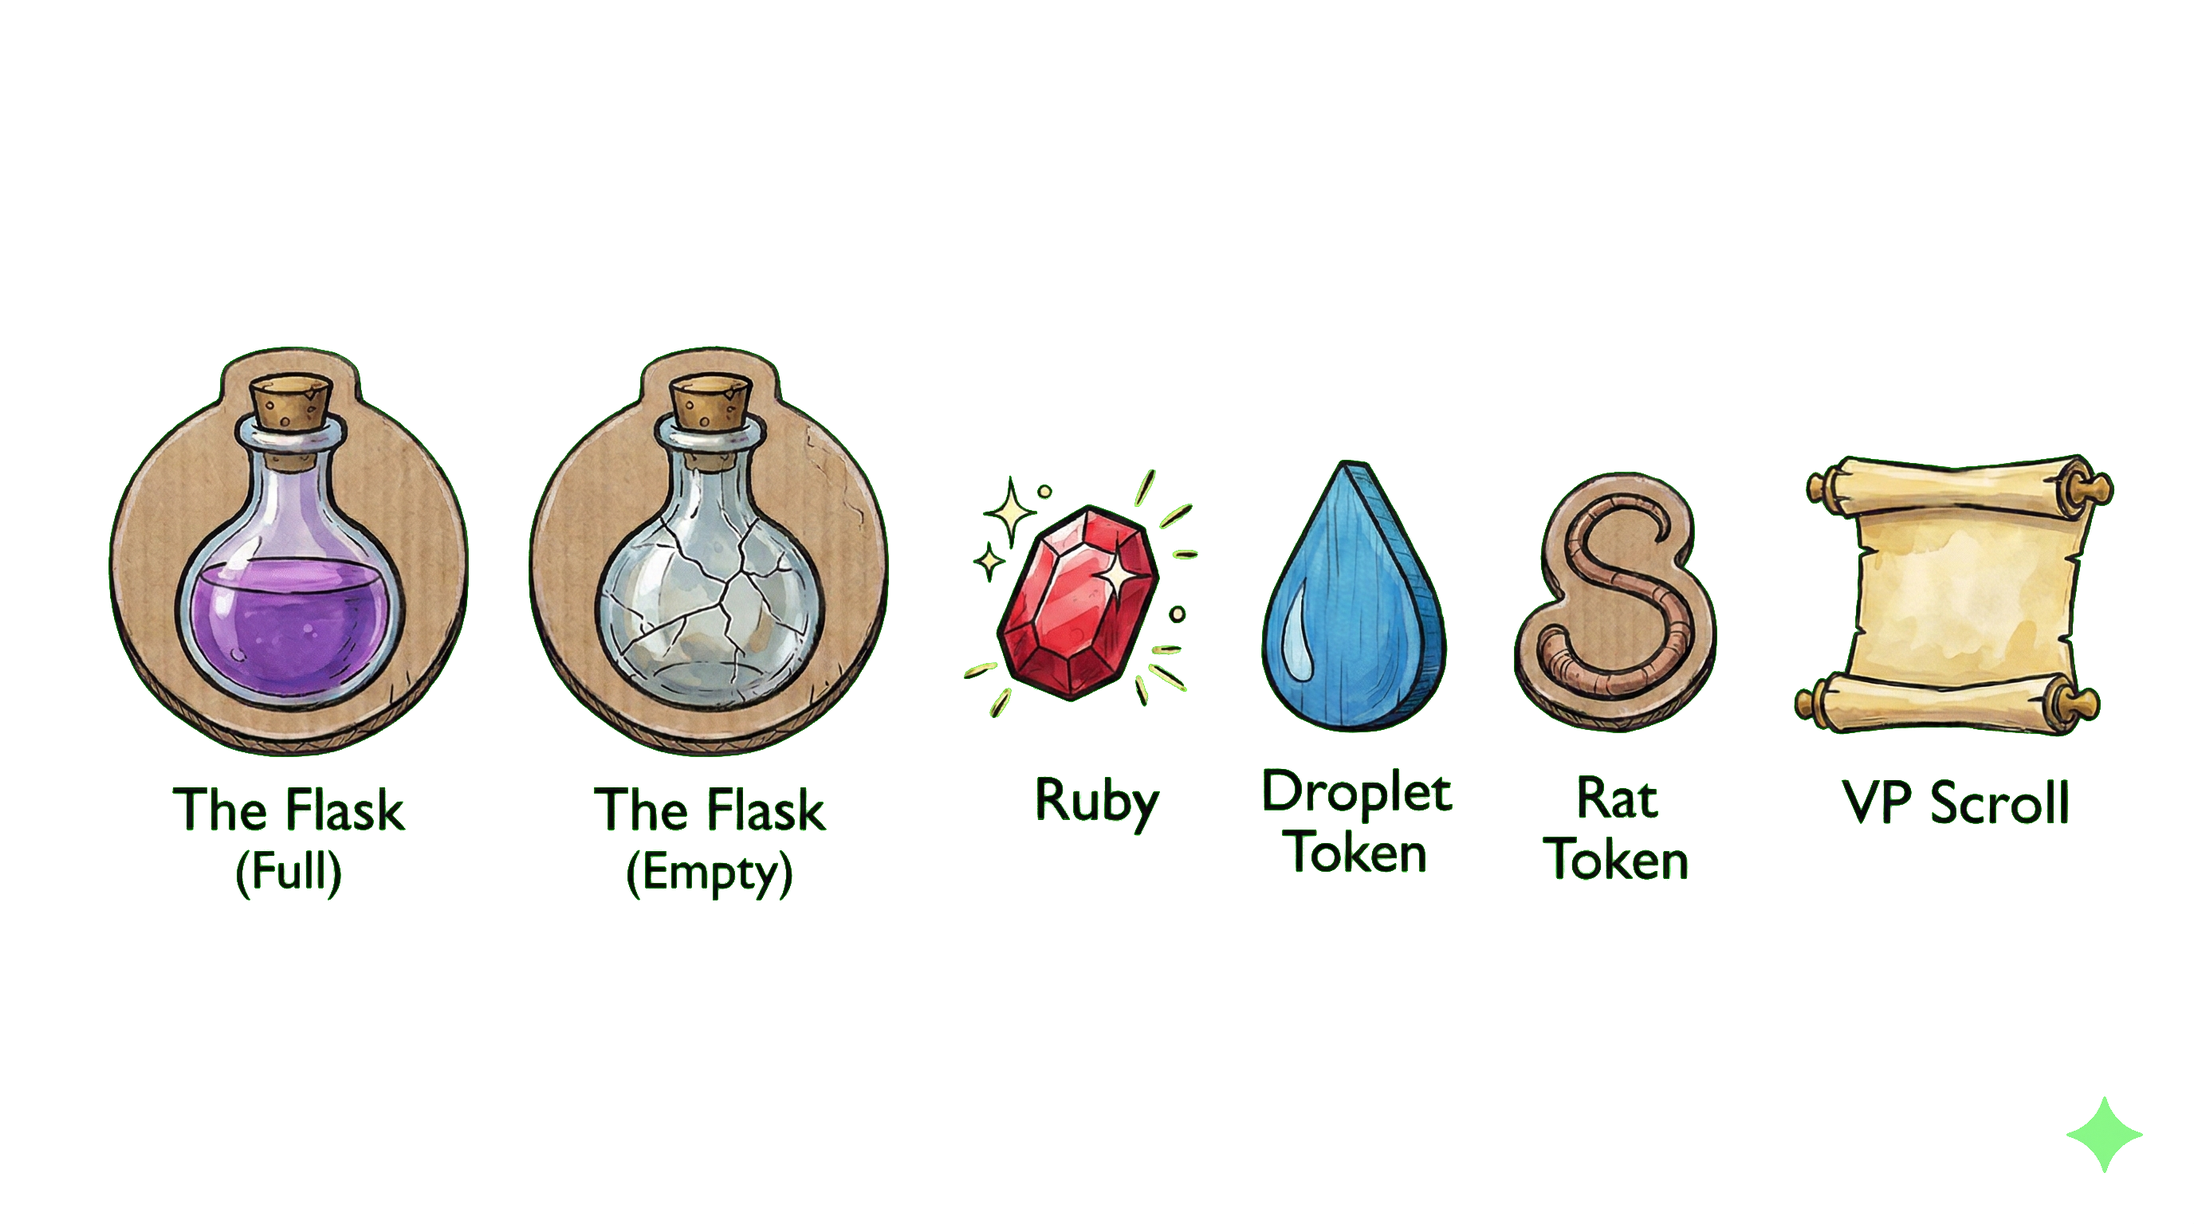
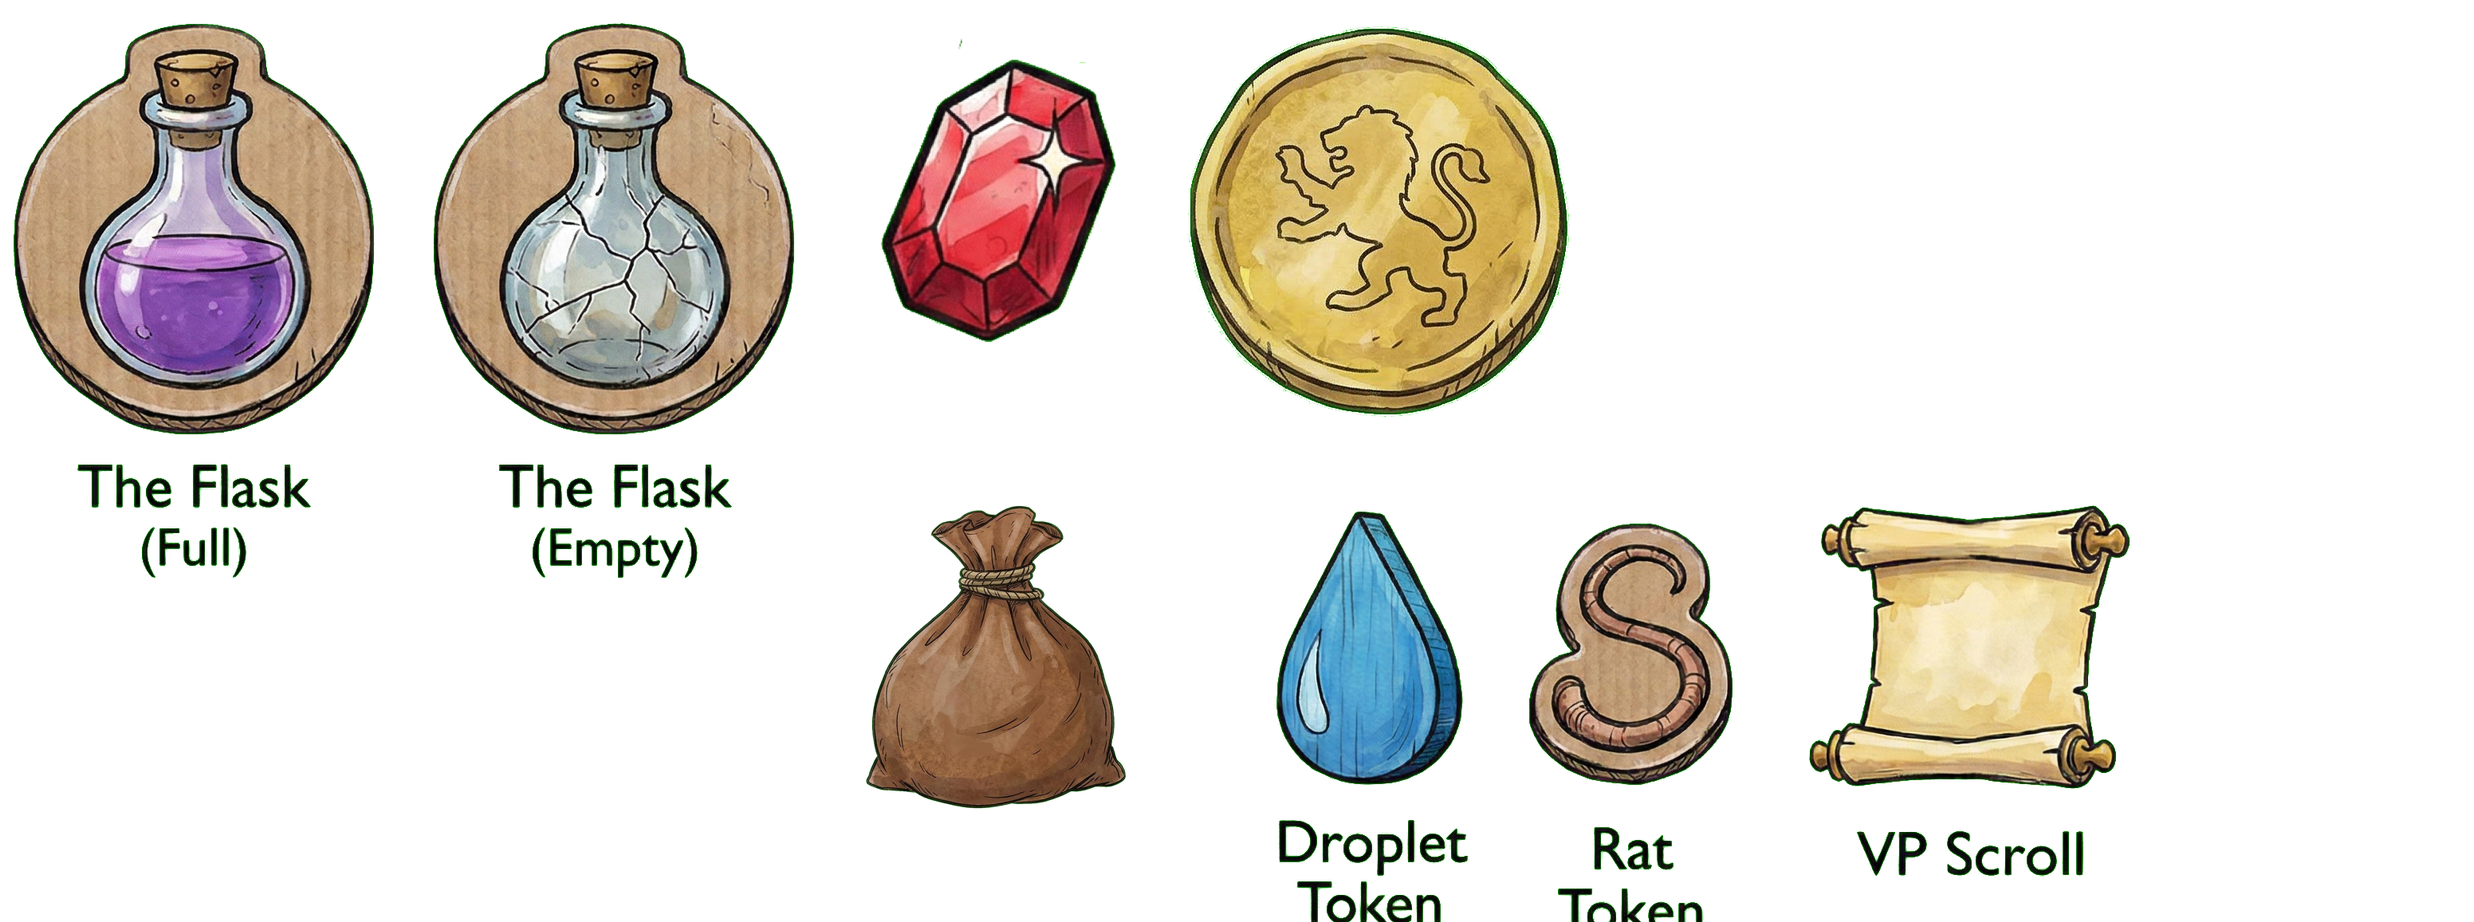
Add help dialog, add gold coin
Let’s buff up the “Help” dialog. It should have right and left arrows that move between six help screens, while keeping the title “How to play OpenQuacks”. 
Screen 1: “DRAW ingredients from your bag to fill your cauldron, brew a great potion, and earn money and victory points. But be careful and STOP before drawing too many Boomberries (white tokens), or your cauldron will explode!”. Then in a new line add an equation: WHITE_3 + WHITE_3 + WHITE_2 = explosion. Use the WHITE icons on the left side of the equation, and an explosion emoji 💥 on the right side.

Screen 2: “At the end of each day, spend money to buy more ingredients. These ingredients make your brew more powerful!”. In a new line, draw ORANGE_1, RED_1, GREEN_1, YELLOW_1, PURPLE_1, BLACK_1, BLUE_1.

Screen 3: “Use the FLASK to take back a boomberry into your bag. You may only use the flask immediately after drawing a boomberry, and you cannot use the flask if your brew exploded! You can refill your flask for a price.”
In a new line, draw an equation: empty flask + ruby + ruby = full flask.

Screen 4: “The DROPLET is where you start brewing from. Adding droplets makes your brew more valuable, but they cost rubies!”. In a new line: ruby + ruby = droplet.

Screen 5: “Get free RAT TAILS if you are far behind the leader. These ingredients give you a temporary boost, so you could catch up with your opponents!” In a new line, show the RAT icon.
[…]

diff --git a/index.html b/index.html
@@ -232,17 +232,12 @@
                     <button id="btn-flask" class="flask-btn" disabled>Use</button>
                 </div>
                 <div class="status-box">
-                    <div style="display: flex; align-items: center;">
-                        <span id="ui-icon-rat" class="icon-small"></span>Rat Tails:
-                    </div>
-                    <strong id="ui-rat-tails" style="color: #ffb703;">0</strong>
-                </div>
-                <div class="status-box">
                     <span>Brew Value:</span>
                     <span style="display: flex; align-items: center;">
                         <strong id="ui-brew-vp" style="color: #f5f5f5; display: none;">0</strong>
                         <span id="ui-brew-vp-icon" class="icon-small" style="display: none; margin-left: 5px; margin-right: 10px;"></span>
                         <strong id="ui-brew-value" style="color: gold;">0</strong>
+                        <span id="ui-brew-coin" class="icon-small" style="margin-left: 3px;"></span>
                         <strong id="ui-brew-ruby-val" style="color: #ff4444; display: none; margin-left: 8px;">0</strong>
                         <span id="ui-brew-ruby" class="icon-small" style="display: none; margin-left: 3px; margin-right: 0;"></span>
                     </span>
@@ -285,13 +280,17 @@
     </div>
 
     <div id="help-modal" class="modal-overlay" style="z-index: 1007;">
-        <div class="modal-content">
-            <h2>❓ How to Play Open Quacks</h2>
-            <p style="margin: 15px 0; font-size: 1.1em; line-height: 1.5; color: #ddd;">
-                Draw ingredients from your bag to fill your cauldron and earn money and victory points. 
-                Buy new ingredients to make your brew more powerful, but be careful not to draw too many Boomberries (white tokens), or your cauldron will explode!
-            </p>
-            <button id="btn-close-help" style="background-color: #4caf50;">Got it!</button>
+        <div class="modal-content" style="max-width: 550px;">
+            <h2>❓ How to play OpenQuacks</h2>
+            <div style="display: flex; align-items: center; justify-content: space-between; margin-top: 20px;">
+                <button id="btn-help-prev" style="flex: none; width: 40px; height: 40px; padding: 0; border-radius: 50%; background-color: #4a4e69; font-size: 1.2rem; margin: 0;">&lt;</button>
+                <div id="help-slide-content" style="flex: 1; margin: 0 15px; font-size: 1.05em; line-height: 1.5; color: #ddd; min-height: 160px; display: flex; flex-direction: column; justify-content: center;">
+                    <!-- content injected here -->
+                </div>
+                <button id="btn-help-next" style="flex: none; width: 40px; height: 40px; padding: 0; border-radius: 50%; background-color: #4a4e69; font-size: 1.2rem; margin: 0;">&gt;</button>
+            </div>
+            <div id="help-slide-indicator" style="margin-top: 15px; font-size: 0.9rem; color: #aaa; font-weight: bold;">1 / 6</div>
+            <button id="btn-close-help" style="background-color: #4caf50; margin-top: 15px;">Got it!</button>
         </div>
     </div>
 
@@ -311,7 +310,7 @@
             <p style="margin: 15px 0; font-size: 0.9em; color: #aaa;">(You may only take Victory Points OR Money to buy ingredients, not both).</p>
             <div>
                 <button id="btn-choose-vp">Take <span id="expl-vp-val">0</span> VP</button>
-                <button id="btn-choose-money">Take <span id="expl-money-val">0</span> Money</button>
+                <button id="btn-choose-money" style="display: inline-flex; align-items: center; justify-content: center;">Take <span id="expl-money-val" style="margin: 0 5px;">0</span> <span id="expl-money-icon"></span></button>
             </div>
         </div>
     </div>
@@ -320,7 +319,7 @@
         <div class="modal-content">
             <h2>🛒 Buying Phase</h2>
             <div style="display: flex; justify-content: space-around; margin-bottom: 15px; background: rgba(0,0,0,0.3); padding: 10px; border-radius: 8px;">
-                <span>Available Money: <strong id="shop-money" style="color: gold; font-size: 1.2rem;">0</strong></span>
+                <span style="display: flex; align-items: center;">Available Money: <strong id="shop-money" style="color: gold; font-size: 1.2rem; margin-left: 5px;">0</strong><span id="shop-money-icon"></span></span>
                 <span style="display: flex; align-items: center;">
                     <span id="ui-icon-ruby" class="icon-small"></span> 
                     Rubies: <strong id="shop-rubies" style="color: #ff4444; font-size: 1.2rem; margin-left: 5px;">0</strong>
@@ -419,12 +418,13 @@
 
         // Utility Sprite Mappings updated for the new irregular layout
         const UTILS_MAP = {
-            FLASK_FULL:  { x: 0.04, y: 0.24, w: 0.19, h: 0.38 }, 
-            FLASK_EMPTY: { x: 0.24, y: 0.24, w: 0.19, h: 0.38 }, 
-            RUBY:        { x: 0.44, y: 0.34, w: 0.13, h: 0.27 }, 
-            DROPLET:     { x: 0.57, y: 0.33, w: 0.11, h: 0.28 }, 
-            RAT:         { x: 0.69, y: 0.38, w: 0.12, h: 0.21 }, 
-            VP:          { x: 0.81, y: 0.34, w: 0.17, h: 0.27 }  
+            FLASK_FULL:  { x: 0.00, y: 0.00, w: 0.20, h: 0.95 }, 
+            FLASK_EMPTY: { x: 0.20, y: 0.00, w: 0.20, h: 0.95 }, 
+            RUBY:        { x: 0.41, y: 0.05, w: 0.13, h: 0.40 }, 
+            COIN:        { x: 0.37, y: 0.44, w: 0.20, h: 0.55 },
+            DROPLET:     { x: 0.56, y: 0.12, w: 0.12, h: 0.50 }, 
+            RAT:         { x: 0.68, y: 0.15, w: 0.14, h: 0.50 }, 
+            VP:          { x: 0.82, y: 0.08, w: 0.17, h: 0.50 }  
         };
 
         // 4x4 Grid Constants for Characters
@@ -799,6 +799,7 @@
                 this.ctx = this.canvas.getContext('2d');
                 this.wrapper = document.getElementById('cauldron-wrapper');
                 this.spiralSpaces = []; this.shopCart = [];
+                this.helpSlideIndex = 0;
                 
                 this.isDebug = window.location.href.includes('debug=1');
 
@@ -866,6 +867,19 @@
                 document.getElementById('btn-settings').addEventListener('click', () => { this.showCharacterSelect(false); });
                 document.getElementById('btn-help').addEventListener('click', () => { this.showHelpModal(); });
                 document.getElementById('btn-close-help').addEventListener('click', () => { document.getElementById('help-modal').style.display = 'none'; });
+                
+                document.getElementById('btn-help-prev').addEventListener('click', () => {
+                    if (this.helpSlideIndex > 0) {
+                        this.helpSlideIndex--;
+                        this.renderHelpSlide();
+                    }
+                });
+                document.getElementById('btn-help-next').addEventListener('click', () => {
+                    if (this.helpSlideIndex < 5) {
+                        this.helpSlideIndex++;
+                        this.renderHelpSlide();
+                    }
+                });
             }
 
             showCharacterSelect(isMandatory = false) {
@@ -921,7 +935,71 @@
             }
 
             showHelpModal() {
+                this.helpSlideIndex = 0;
+                this.renderHelpSlide();
                 document.getElementById('help-modal').style.display = 'flex';
+            }
+
+            renderHelpSlide() {
+                const contentEl = document.getElementById('help-slide-content');
+                const indicatorEl = document.getElementById('help-slide-indicator');
+                
+                const slides = [
+                    {
+                        text: "DRAW ingredients from your bag to fill your cauldron, brew a great potion, and earn money and victory points. But be careful and STOP before drawing too many Boomberries (white tokens), or your cauldron will explode!",
+                        html: `<div style="display: flex; align-items: center; justify-content: center; gap: 10px; margin-top: 15px; font-weight: bold;">
+                            <div class="chip-icon" style="${getChipSpriteStyle('WHITE', 3)}"></div> + 
+                            <div class="chip-icon" style="${getChipSpriteStyle('WHITE', 3)}"></div> + 
+                            <div class="chip-icon" style="${getChipSpriteStyle('WHITE', 2)}"></div> = <span style="font-size: 1.8rem; margin-left: 5px;">💥</span>
+                        </div>`
+                    },
+                    {
+                        text: "At the end of each day, spend money to buy more ingredients. These ingredients make your brew more powerful!",
+                        html: `<div style="display: flex; align-items: center; justify-content: center; gap: 8px; margin-top: 15px; flex-wrap: wrap;">
+                            <div class="chip-icon" style="${getChipSpriteStyle('ORANGE', 1)}"></div>
+                            <div class="chip-icon" style="${getChipSpriteStyle('RED', 1)}"></div>
+                            <div class="chip-icon" style="${getChipSpriteStyle('GREEN', 1)}"></div>
+                            <div class="chip-icon" style="${getChipSpriteStyle('YELLOW', 1)}"></div>
+                            <div class="chip-icon" style="${getChipSpriteStyle('PURPLE', 1)}"></div>
+                            <div class="chip-icon" style="${getChipSpriteStyle('BLACK', 1)}"></div>
+                            <div class="chip-icon" style="${getChipSpriteStyle('BLUE', 1)}"></div>
+                        </div>`
+                    },
+                    {
+                        text: "Use the FLASK to take back a boomberry into your bag. You may only use the flask immediately after drawing a boomberry, and you cannot use the flask if your brew exploded! You can refill your flask for a price.",
+                        html: `<div style="display: flex; align-items: center; justify-content: center; gap: 10px; margin-top: 15px; font-weight: bold;">
+                            <div style="width:30px; height:45px; ${getUtilSpriteStyle('FLASK_EMPTY')}"></div> + 
+                            <div style="width:25px; height:25px; ${getUtilSpriteStyle('RUBY')}"></div> + 
+                            <div style="width:25px; height:25px; ${getUtilSpriteStyle('RUBY')}"></div> = 
+                            <div style="width:30px; height:45px; ${getUtilSpriteStyle('FLASK_FULL')}"></div>
+                        </div>`
+                    },
+                    {
+                        text: "The DROPLET is where you start brewing from. Adding droplets makes your brew more valuable, but they cost rubies!",
+                        html: `<div style="display: flex; align-items: center; justify-content: center; gap: 10px; margin-top: 15px; font-weight: bold;">
+                            <div style="width:25px; height:25px; ${getUtilSpriteStyle('RUBY')}"></div> + 
+                            <div style="width:25px; height:25px; ${getUtilSpriteStyle('RUBY')}"></div> = 
+                            <div style="width:30px; height:45px; ${getUtilSpriteStyle('DROPLET')}"></div>
+                        </div>`
+                    },
+                    {
+                        text: "Get free RAT TAILS if you are far behind the leader. These ingredients give you a temporary boost, so you could catch up with your opponents!",
+                        html: `<div style="display: flex; align-items: center; justify-content: center; gap: 10px; margin-top: 15px;">
+                            <div style="width:40px; height:40px; ${getUtilSpriteStyle('RAT')}"></div>
+                        </div>`
+                    },
+                    {
+                        text: "The game lasts for 9 rounds. At the end of the last day, whoever has the most VP is the winner!",
+                        html: `<div style="display: flex; align-items: center; justify-content: center; gap: 10px; margin-top: 15px; font-size: 3rem;">🏆</div>`
+                    }
+                ];
+
+                const slide = slides[this.helpSlideIndex];
+                contentEl.innerHTML = `<div>${slide.text}</div>${slide.html}`;
+                indicatorEl.innerText = `${this.helpSlideIndex + 1} / ${slides.length}`;
+                
+                document.getElementById('btn-help-prev').disabled = this.helpSlideIndex === 0;
+                document.getElementById('btn-help-next').disabled = this.helpSlideIndex === slides.length - 1;
             }
 
             showBonusDieModal(resultText) {
@@ -932,6 +1010,7 @@
 
             showExplosionModal(vp, money) {
                 document.getElementById('expl-vp-val').innerText = vp; document.getElementById('expl-money-val').innerText = money;
+                document.getElementById('expl-money-icon').style.cssText = `width: 20px; height: 20px; display: inline-block; ${getUtilSpriteStyle('COIN')}`;
                 document.getElementById('explosion-modal').style.display = 'flex';
             }
 
@@ -965,7 +1044,7 @@
                         </div>
                         <div style="display: flex; justify-content: space-between; font-size: 0.8rem; color: #aaa; border-top: 1px dashed rgba(255,255,255,0.2); padding-top: 5px;">
                             <span>Base: <strong style="color: #f5f5f5;">${baseVP}</strong></span>
-                            <span>Money (${p.money}): <strong style="color: gold;">+${moneyVP}</strong></span>
+                            <span style="display: flex; align-items: center;">Money <span style="width: 14px; height: 14px; display: inline-block; margin: 0 4px; ${getUtilSpriteStyle('COIN')}"></span> (${p.money}): <strong style="color: gold; margin-left: 2px;">+${moneyVP}</strong></span>
                             <span>Rubies (${p.rubies}): <strong style="color: #ff4444;">+${rubyVP}</strong></span>
                         </div>
                     </div>`;
@@ -1044,6 +1123,7 @@
             renderShopUI() {
                 const h = this.game.humanPlayer;
                 document.getElementById('shop-money').innerText = h.money; document.getElementById('shop-rubies').innerText = h.rubies;
+                document.getElementById('shop-money-icon').style.cssText = `width: 24px; height: 24px; display: inline-block; margin-left: 5px; ${getUtilSpriteStyle('COIN')}`;
 
                 const shopItems = document.getElementById('shop-items'); shopItems.innerHTML = '';
                 const cartColors = this.shopCart.map(c => c.type.id);
@@ -1063,7 +1143,7 @@
                     
                     el.innerHTML = `<div class="chip-icon" style="${chipStyle || `background-color: ${item.type.color};`}">${!chipStyle ? item.value : ''}</div>
                                     <div style="font-size: 0.8em; font-weight: bold;">${item.type.name}</div>
-                                    <div style="font-size: 0.9em; color: gold;">Cost: ${item.cost}</div>
+                                    <div style="font-size: 0.9em; color: gold; display: flex; align-items: center; justify-content: center;">Cost: ${item.cost} <span style="width: 16px; height: 16px; display: inline-block; margin-left: 4px; ${getUtilSpriteStyle('COIN')}"></span></div>
                                     <div class="tooltip">${desc}</div>`;
 
                     if (!disabled) el.addEventListener('click', () => { if (h.buyChip(item.type, item.value, item.cost)) { this.shopCart.push(item); this.renderShopUI(); } });
@@ -1373,10 +1453,10 @@
                 document.getElementById('ui-my-vp').innerText = `${human.victoryPoints} VP`;
 
                 document.getElementById('ui-bag-count').innerText = human.bag.length;
-                document.getElementById('ui-rat-tails').innerText = `${human.ratTails}`;
                 
                 const humanRewards = this.getProjectedRewards(human);
                 document.getElementById('ui-brew-value').innerText = humanRewards.money;
+                document.getElementById('ui-brew-coin').style.cssText = `width: 20px; height: 20px; display: inline-block; margin-left: 3px; margin-right: 5px; ${getUtilSpriteStyle('COIN')}`;
                 
                 const brewRubyEl = document.getElementById('ui-brew-ruby');
                 const brewRubyValEl = document.getElementById('ui-brew-ruby-val');
@@ -1421,7 +1501,6 @@
 
                 // Apply Sprite UI Icons
                 document.getElementById('ui-flask-icon').style.cssText = `width: 25px; height: 35px; ${getUtilSpriteStyle(human.flaskActive ? 'FLASK_FULL' : 'FLASK_EMPTY')}`;
-                document.getElementById('ui-icon-rat').style.cssText = `width: 20px; height: 20px; display: inline-block; ${getUtilSpriteStyle('RAT')}`;
                 document.getElementById('ui-icon-ruby').style.cssText = `width: 20px; height: 20px; display: inline-block; ${getUtilSpriteStyle('RUBY')}`;
 
                 const aiListEl = document.getElementById('ai-list'); aiListEl.innerHTML = ''; 
@@ -1437,7 +1516,7 @@
                     if (aiRewards.vp > 0) {
                         brewHtml += `<span style="color: #f5f5f5; margin-left: 5px;">${aiRewards.vp}</span><span style="width: 16px; height: 16px; display: inline-block; margin-left: 2px; margin-right: 5px; ${getUtilSpriteStyle('VP')}"></span>`;
                     }
-                    brewHtml += `<strong style="color: gold; margin-left: 5px;">${aiRewards.money}</strong>`;
+                    brewHtml += `<strong style="color: gold; margin-left: 5px;">${aiRewards.money}</strong><span style="width: 16px; height: 16px; display: inline-block; margin-left: 2px; margin-right: 5px; ${getUtilSpriteStyle('COIN')}"></span>`;
                     if (aiRewards.rubies > 0) {
                         if (aiRewards.rubies > 1) {
                             brewHtml += `<span style="color: #ff4444; margin-left: 8px;">${aiRewards.rubies}</span>`;
